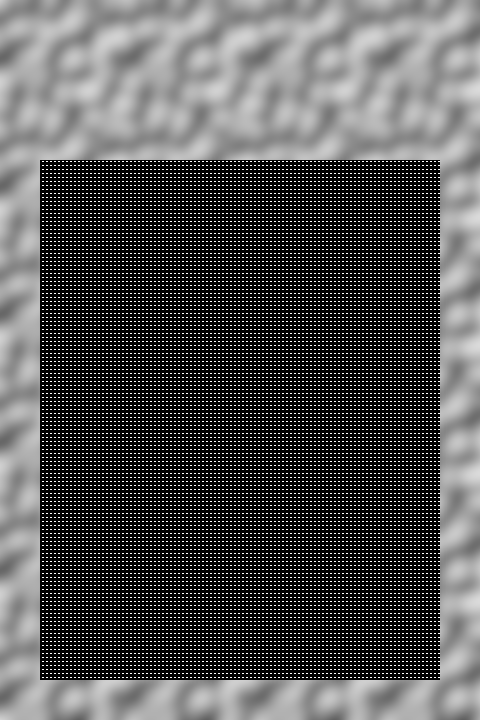
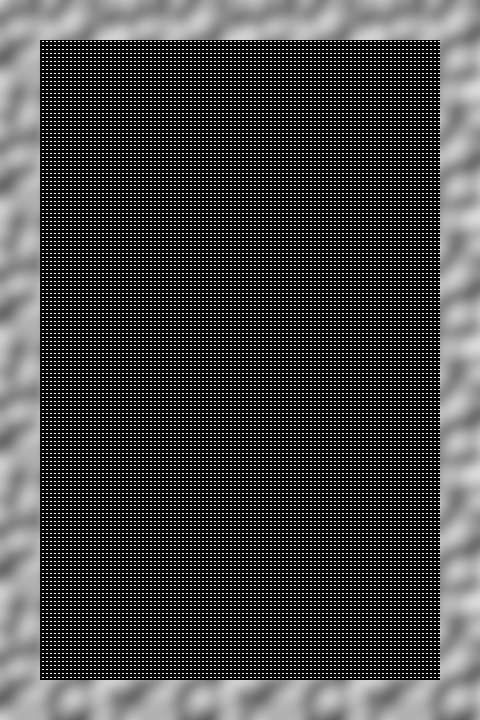
did mo stuff

Changed region(s): [[0.0625, 0.0306, 0.9375, 0.2444]]

diff --git a/js/blockGame.js b/js/blockGame.js
@@ -53,7 +53,7 @@ class BlockPiece extends GameFGObject
         options.updateFrame = function()
         {
             //dont process any piece that's not visible or is already "dead"
-            if(!this.visible || this.type === "deadBlockPiece")
+            if(!this.visible || this.outOfFrame)
                 return;
 
             //check if block piece is in grid
@@ -111,9 +111,23 @@ class GameGrid extends GameFGObject
     static BASE_POINTS_2_LINES = 50;
     static BASE_POINTS_3_LINES = 150;
     static BASE_POINTS_4_LINES = 600;
-    static NUM_OF_LINES = 13;
+    static NUM_OF_LINES = 16;
     lineCheckers = [];
     gridBlocks = [];
+    dropLZ = new GameFGObject(blockGame, 200, 40, 40, 40, 
+        {
+            drawFrame:function(){},
+            updateFrame: function()
+            {
+                for(let i = 0; i < this.overlapObjects.length; ++i)
+                {
+                    if(this.overlapObjects[i].type === "deadBlockPiece")
+                    {
+                        console.log("Game Over!");
+                    }
+                }
+            }
+        });
 
     reindexLineCheckers()
     {
@@ -130,7 +144,7 @@ class GameGrid extends GameFGObject
 
     constructor()
     {
-        super(blockGame, 40, 160, 400, 520,{
+        super(blockGame, 40, 40, 400, 640,{
             type:"gameGrid",
             drawFrame: function(){},
             updateFrame: function()
@@ -167,26 +181,15 @@ class GameGrid extends GameFGObject
                         }
                         prevBlock = blockInPlay;
                         prevBlock.remove();
-                        blockInPlay = CompoundBlock.generateNewBlock(prevBlock);
+                        blockInPlay = CompoundBlock.RegenBlock(nextBlock, 200, 40); 
+                        nextBlock = CompoundBlock.generateNewBlock(blockInPlay, 200, -100);
+
+                        //display next piece
+                        var nextBlockHTML = "";
+                        nextBlockHTML += "<h2>Next Piece</h2><br>"
+                        nextBlockHTML += "<img src=\"media/"+nextBlock.type+".png\">"
+                        document.getElementById("nextPiece").innerHTML = nextBlockHTML;
                     }
-                }
-                // F*** it! Let's run a check for all block pieces that are not the active block!!!!!!
-                for (let i = 0; i < blockGame.gameForegroundObjects.length; ++i)
-                {
-                    var localGameFGObject = blockGame.gameForegroundObjects[i]; // local make easy do...
-
-                    if(localGameFGObject.uniqueID !== blockInPlay.uniqueID &&
-                        (localGameFGObject.type === "LLBlock" ||
-                         localGameFGObject.type === "LRBlock" ||
-                         localGameFGObject.type === "TBlock" ||
-                         localGameFGObject.type === "LineBlock" ||
-                         localGameFGObject.type === "SquareBlock")
-                        )
-                        {
-                            //MAKE DEAD!!!!!!!
-                            localGameFGObject.remove();
-                        }
-
                 }
                 //check if any lines are complete
                 var clearedLines = []; //contains an array of lineCheckers that have complete lines
@@ -261,7 +264,7 @@ class CompoundBlock extends GameFGObject
     allBlocks = [];
     accelerated = false;
 
-    static generateNewBlock(lastBlock)
+    static generateNewBlock(lastBlock, x = 200, y = 40)
     {
         var lastBlockType = "";
         var temp = { type:"" };
@@ -276,19 +279,19 @@ class CompoundBlock extends GameFGObject
             switch(Math.floor(Math.random() * 5))
             {
                 case 0:
-                    temp = new LLBlock(blockGame, 200, 160, {color:"green"});
+                    temp = new LLBlock(blockGame, x, y, {color:"green"});
                     break;
                 case 1:
-                    temp = new LRBlock(blockGame, 200, 160, {color:"SaddleBrown"});
+                    temp = new LRBlock(blockGame, x, y, {color:"SaddleBrown"});
                     break;
                 case 2:
-                    temp = new TBlock(blockGame, 200, 160, {color:"yellow"});
+                    temp = new TBlock(blockGame, x, y, {color:"yellow"});
                     break;
                 case 3:
-                    temp = new LineBlock(blockGame, 200, 160, {color:"red"});
+                    temp = new LineBlock(blockGame, x, y, {color:"red"});
                     break;
                 case 4:
-                    temp = new SquareBlock(blockGame, 200, 160, {color:"orange"});
+                    temp = new SquareBlock(blockGame, x, y, {color:"orange"});
                     break;
             }
         }
@@ -731,8 +734,17 @@ class LineBlock extends CompoundBlock
 
 
 var blockInPlay = CompoundBlock.generateNewBlock();
+var nextBlock = CompoundBlock.generateNewBlock(null, 200, -100);
 var prevBlock = null;
 var tron = new GameGrid(); //you know... because it's "the grid"... lol
+
+//display next piece
+var nextBlockHTML = "";
+nextBlockHTML += "<h2>Next Piece</h2><br>"
+nextBlockHTML += "<img src=\"media/"+nextBlock.type+".png\">"
+document.getElementById("nextPiece").innerHTML = nextBlockHTML;
+
+//control event listeners
 window.addEventListener('keydown', function(e)
 {    
     if(e.key === "x") blockInPlay.rotateRight();

diff --git a/GenericBlockGameDeluxe.html b/GenericBlockGameDeluxe.html
@@ -17,7 +17,8 @@
             <canvas id="genericFallingBlockPuzzleGame" width = 480 height="720"></canvas>
             <div class="gameInfo">
                 <p class="gameControls">
-                    <output id="score"></output>
+                    <output id="score"></output><br>
+                    <output id="nextPiece"></output>
                 </p>
                 <p class="gameDescription">
                     Everyone remembers the generic falling blocks game from the country who shall 
